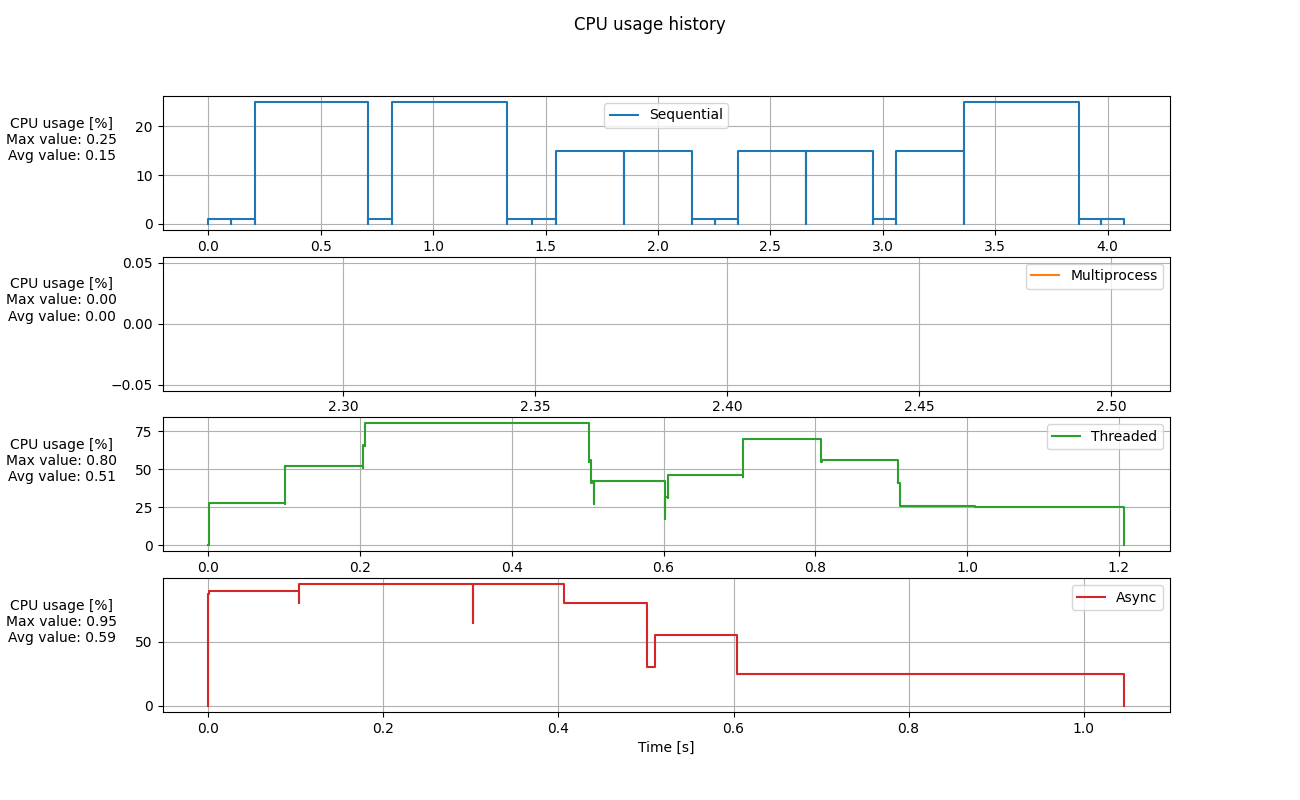
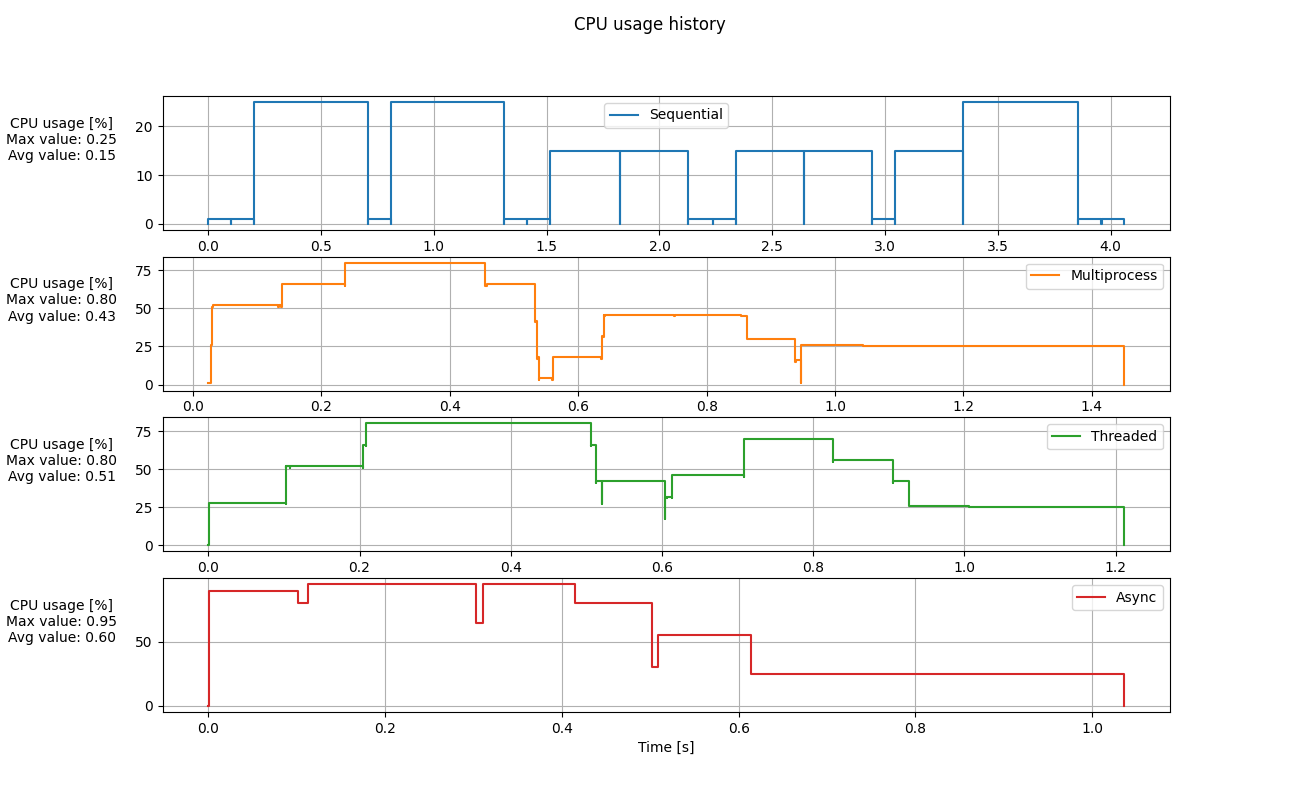
shared cpu manager works

diff --git a/lab9/cpu_manager.py b/lab9/cpu_manager.py
@@ -2,6 +2,7 @@ import time
 import threading
 import matplotlib.pyplot as plt
 import numpy as np
+from multiprocessing import Manager, Lock, Value, Array
 from dataclasses import dataclass
 from typing import List, Dict
 from sim_params import *
@@ -60,20 +61,20 @@ class CpuManager:
     def reset(self) -> None:
         self.__init__()
 
-    def _get_avg_load(self) -> float:
-        if len(self.timestamps) == 1:
-            return 0.0
-        integral = 0
-        for i in range(0, len(self.load_history) - 1):
-            integral += self.load_history[i] * (
-                self.timestamps[i + 1] - self.timestamps[i]
-            )
-        return integral / self.timestamps[-1]
-
     def get_stats(self) -> Dict:
         """Получить статистику"""
         with self.lock:
-            avg_load = self._get_avg_load()
+            if len(self.timestamps) <= 1:
+                avg_load = 0.0
+            else:
+                integral = 0.0
+                for i in range(len(self.load_history) - 1):
+                    integral += self.load_history[i] * (
+                        self.timestamps[i + 1] - self.timestamps[i]
+                    )
+                avg_load = (
+                    integral / self.timestamps[-1] if self.timestamps[-1] > 0 else 0.0
+                )
             return {
                 "max": self.max_load,
                 "avg": avg_load,
@@ -82,7 +83,79 @@ class CpuManager:
             }
 
 
+class SharedCpuManager:
+    """CpuManager с разделяемой памятью для multiprocessing"""
+
+    def __init__(self) -> None:
+        # Используем Manager для разделяемых объектов
+        self.manager = Manager()
+        # Разделяемые переменные
+        self.current_load = Value("d", 0.0)
+        self.max_load = Value("d", 0.0)
+        self.max_capacity = Value("d", MAX_CAPACITY)
+        self.start_time = Value("d", time.time())
+        self.lock = Lock()
+
+        # Разделяемые списки для истории
+        self.load_history = self.manager.list()
+        self.timestamps = self.manager.list()
+
+    def acquire(self, required_cpu: float) -> bool:
+        """Потокобезопасное добавление нагрузки"""
+        with self.lock:
+            if self.current_load.value + required_cpu <= self.max_capacity.value:
+                self.current_load.value += required_cpu
+                self.max_load.value = max(self.max_load.value, self.current_load.value)
+                self._record()
+                return True
+            return False
+
+    def release(self, load: float) -> None:
+        """Потокобезопасное освобождение нагрузки"""
+        with self.lock:
+            self.current_load.value -= load
+            if self.current_load.value < 0:
+                self.current_load.value = 0
+            self._record()
+
+    def _record(self) -> None:
+        """Запись текущего состояния"""
+        current_time = time.time() - self.start_time.value
+        self.load_history.append(self.current_load.value)
+        self.timestamps.append(current_time)
+
+    def wait_for_resource(self, required_cpu: float) -> None:
+        """Ожидание ресурсов"""
+        while not self.acquire(required_cpu):
+            time.sleep(0.001)
+
+    def get_stats(self) -> Dict:
+        """Получение статистики"""
+        with self.lock:
+            load_history = list(self.load_history)
+            timestamps = list(self.timestamps)
+
+            if len(timestamps) <= 1:
+                avg_load = 0.0
+            else:
+                integral = 0.0
+                for i in range(len(load_history) - 1):
+                    integral += load_history[i] * (timestamps[i + 1] - timestamps[i])
+                avg_load = integral / timestamps[-1] if timestamps[-1] > 0 else 0.0
+
+            return {
+                "max": self.max_load.value,
+                "avg": avg_load,
+                "history": load_history,
+                "timestamps": timestamps,
+            }
+
+    def reset(self) -> None:
+        self.__init__()
+
+
 cpu_manager = CpuManager()
+shared_cpu_manager = SharedCpuManager()
 
 
 def visualize_cpu_usage(

diff --git a/lab9/user_request.py b/lab9/user_request.py
@@ -3,7 +3,7 @@ import asyncio
 from dataclasses import dataclass
 from typing import List
 from random import shuffle
-from cpu_manager import cpu_manager
+from cpu_manager import cpu_manager, shared_cpu_manager
 from sim_params import *
 
 
@@ -16,19 +16,35 @@ class RequestResult:
 
 
 class UserRequest:
-    def __init__(self, user_id: int, action_type: int, ):
+    def __init__(
+        self,
+        user_id: int,
+        action_type: int,
+    ) -> None:
         self.user_id = user_id
         self.action_type = action_type
         self.required_cpu = self._get_cpu_load()
         self.processing_time = self._get_processing_time()
-    
+
     def _get_cpu_load(self) -> float:
         loads = {1: C1, 2: C2, 3: C3}
         return loads.get(self.action_type, 0)
-    
+
     def _get_processing_time(self) -> float:
         times = {1: T1, 2: T2, 3: T3}
         return times.get(self.action_type, 0)
+
+    def process_request_mp(self) -> RequestResult:
+        start_time = time.time()
+        if CPU_MANAGER_ENABLE:
+            shared_cpu_manager.wait_for_resource(self.required_cpu)
+        time.sleep(self.processing_time)
+        processing_time = time.time() - start_time
+        if CPU_MANAGER_ENABLE:
+            shared_cpu_manager.release(self.required_cpu)
+        return RequestResult(
+            self.user_id, self.action_type, self.required_cpu, processing_time
+        )
 
     def process_request(self) -> RequestResult:
         start_time = time.time()
@@ -38,8 +54,10 @@ class UserRequest:
         processing_time = time.time() - start_time
         if CPU_MANAGER_ENABLE:
             cpu_manager.release(self.required_cpu)
-        return RequestResult(self.user_id, self.action_type, self.required_cpu, processing_time)
-    
+        return RequestResult(
+            self.user_id, self.action_type, self.required_cpu, processing_time
+        )
+
     async def process_request_async(self) -> RequestResult:
         start_time = time.time()
         if CPU_MANAGER_ENABLE:
@@ -49,21 +67,20 @@ class UserRequest:
         processing_time = time.time() - start_time
         if CPU_MANAGER_ENABLE:
             cpu_manager.release(self.required_cpu)
-        return RequestResult(self.user_id, self.action_type, self.required_cpu, processing_time)
+        return RequestResult(
+            self.user_id, self.action_type, self.required_cpu, processing_time
+        )
 
 
 def create_requests(U1: int, U2: int, U3: int) -> List[UserRequest]:
     requests = []
     user_id = 0
-
     for _ in range(U1):
         requests.append(UserRequest(user_id, 1))
         user_id += 1
-
     for _ in range(U2):
         requests.append(UserRequest(user_id, 2))
         user_id += 1
-
     for _ in range(U3):
         requests.append(UserRequest(user_id, 3))
         user_id += 1

diff --git a/lab9/multiproc_server.py b/lab9/multiproc_server.py
@@ -2,11 +2,11 @@ import time
 import multiprocessing as mp
 from typing import List, Tuple, Dict
 from user_request import UserRequest, RequestResult
-from cpu_manager import cpu_manager, CPU_MANAGER_ENABLE, NUM_WORKERS
+from cpu_manager import shared_cpu_manager, CPU_MANAGER_ENABLE, NUM_WORKERS
 
 
 def process_worker(request: UserRequest) -> RequestResult:
-    result = request.process_request()
+    result = request.process_request_mp()
     print(
         f"User {result.user_id}: action {result.action_type}, "
         f"time: {result.processing_time:.3f}s, CPU: {result.cpu_load*100:.1f}%"
@@ -18,7 +18,7 @@ def multiprocess_simulation(
     requests: List[UserRequest], num_proc: int = NUM_WORKERS
 ) -> Tuple[float, Dict]:
     if CPU_MANAGER_ENABLE:
-        cpu_manager.reset()
+        shared_cpu_manager.reset()
     start_time = time.time()
 
     with mp.Pool(processes=num_proc) as pool:
@@ -26,4 +26,4 @@ def multiprocess_simulation(
 
     total_time = time.time() - start_time
     print(f"\nMultiprocess - Total time: {total_time:.3f}s")
-    return total_time, cpu_manager.get_stats()
+    return total_time, shared_cpu_manager.get_stats()

diff --git a/lab9/run_simulation.py b/lab9/run_simulation.py
@@ -5,7 +5,7 @@ from async_server import asyncio_simulation
 from cpu_manager import visualize_cpu_usage
 from sim_params import SEED, CPU_MANAGER_ENABLE
 from user_request import *
-from random import shuffle, seed
+from random import seed
 
 
 def main():
